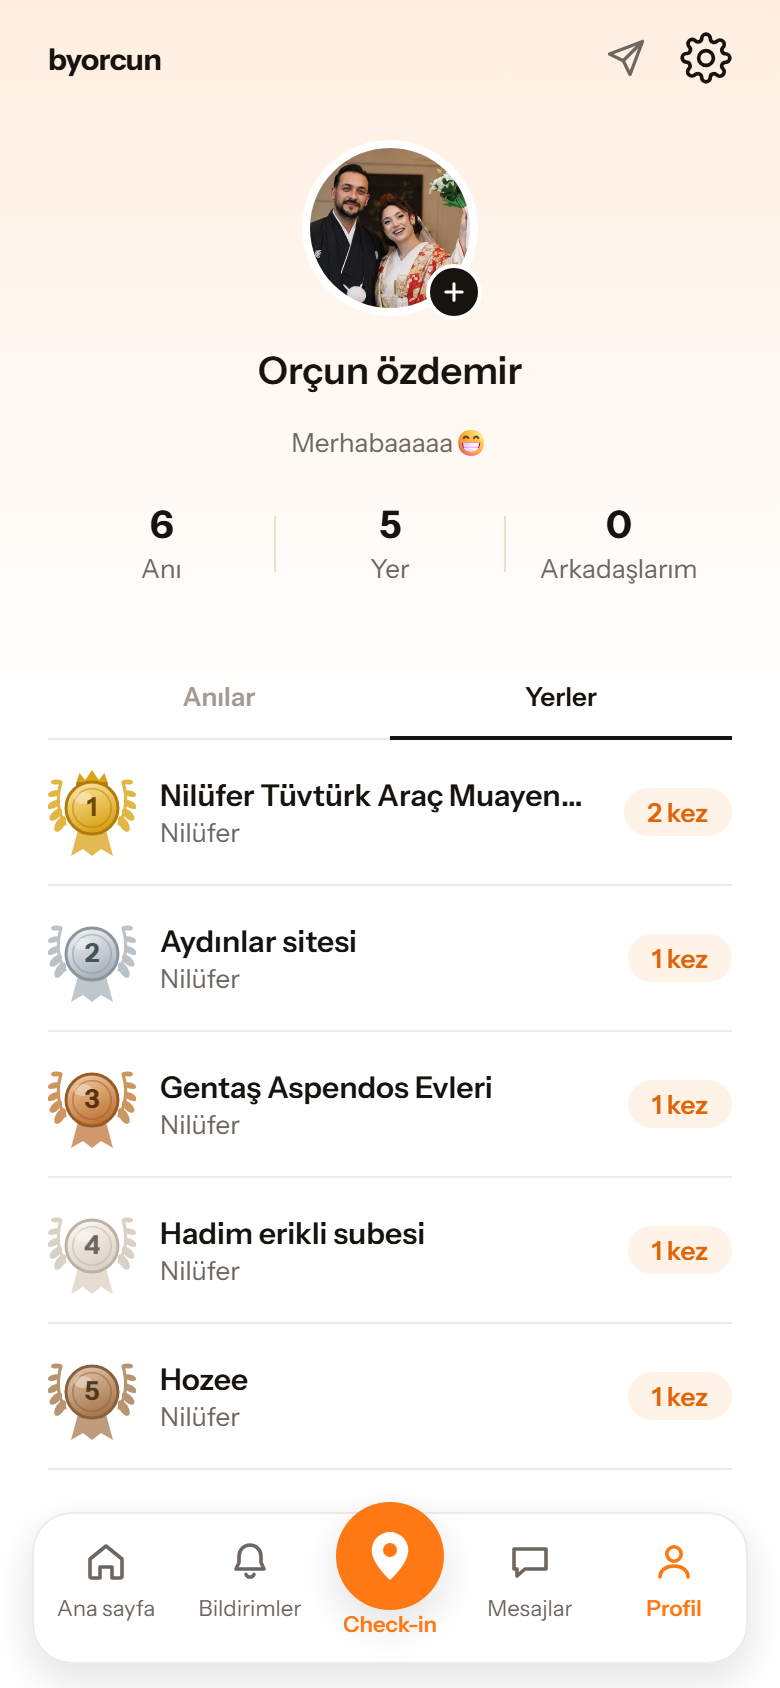
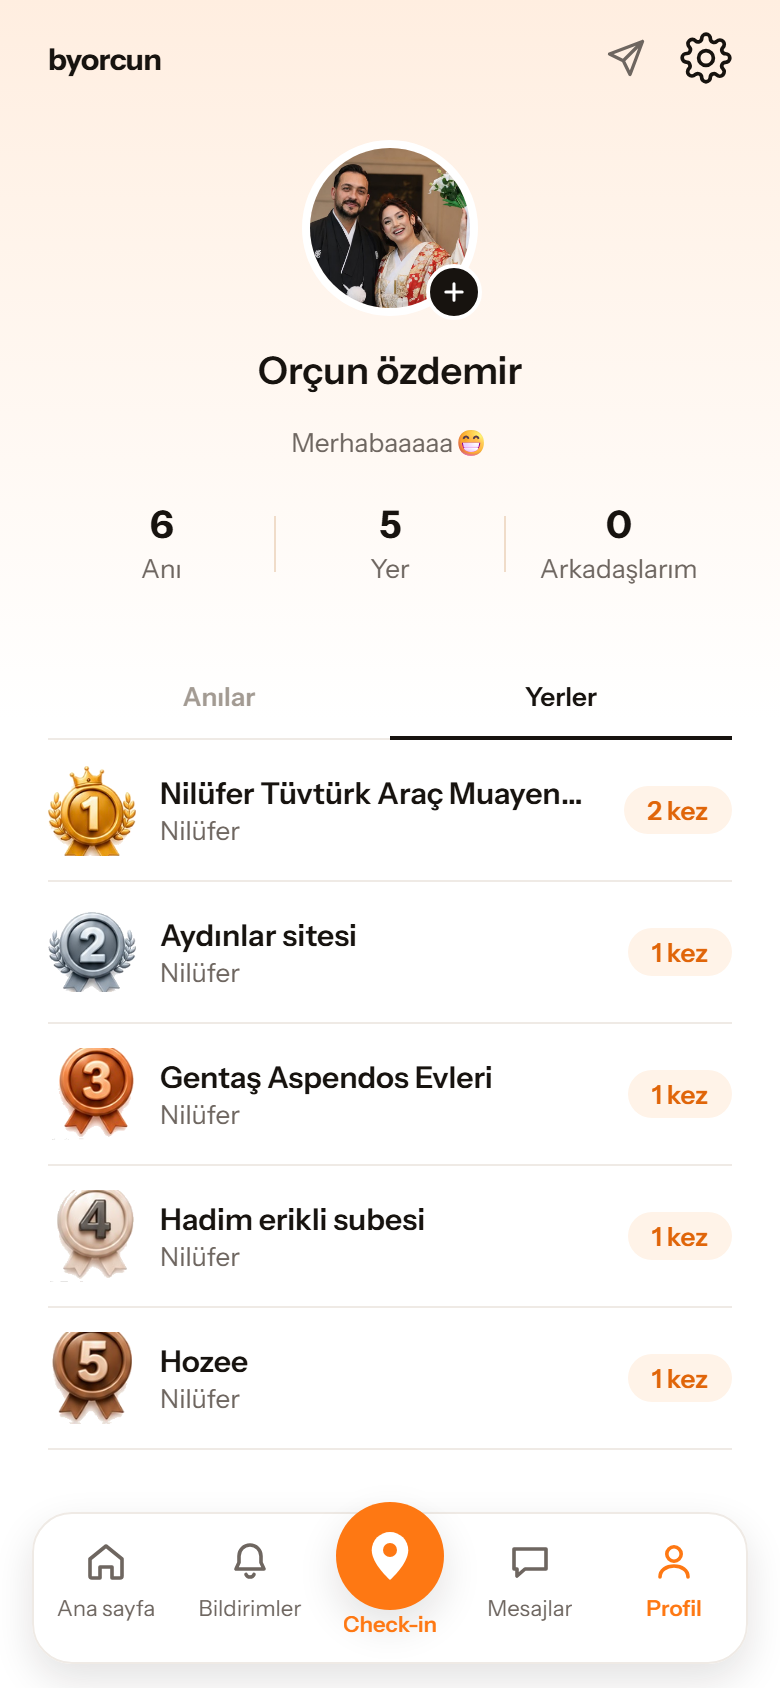
feat(profil): madalyalar referans gorselin KENDISI oldu
Kullanicinin istegi: "Direk attigim gorseldeki gibi gorunmesini
saglayamaz misin". Bir onceki tur madalyalari SVG ile CIZIYORDU ve
referansa yakindi ama ayni degildi; artik referansin kendisi
kullaniliyor.

`araclar/madalya-kirp.py` o gorselden bes madalyayi cikariyor. Uc
ayrinti onemli, ucu de olcerek bulundu:

1. ZEMIN DUZ ESIKLE SILINMIYOR, kenardan TASMA (flood fill) ile
   siliniyor. Duz esik 4. madalyayi da yerdi - o krem/beyaz. Tasma
   yalnizca kenara BAGLI beyazi siliyor, madalyanin icindeki acik
   tonlar duruyor.
2. ESIK 236 DEGIL 225: referansta madalyanin altinda yumusak bir gri
   golge var ve dar esikte saydam olmuyordu. Acik zeminde gorunmuyor
   ama KOYU MODDA madalyanin etrafinda beyazimsi bir hale birakiyordu -
   koyu zeminli kontrol serdiyle yakalandi.
3. SATIR SINIRINDAN 15 px ASAGIDAN kirpiliyor: tam sinirdan kirpinca
   ustteki madalyanin kurdele ucu bu kirpmaya tasiyor ve artik bir leke
   birakiyor. "En buyuk parcayi tut" yontemi denendi ve DEFNE
   DALLARINI da sildi - dal madalyaya degmedigi icin ayri bilesen
   sayiliyor.

Referans buyutulerek dogrulandi: 3, 4 ve 5'te defne dali ZATEN YOK,
yalnizca 1 ve 2'de var. Kucuk ekran goruntusunde varmis gibi
gorunuyordu.

Rakam artik gorselin ICINDE - ayri metin katmani kalkti. Kullanilmayan
SVG import'lari da temizlendi (Circle, Ellipse, G, Rect, Defs, Stop ve
takma adli LinearGradient).

Claude-Session: https://claude.ai/code/session_014wYs6J6iS1AnuVStzS1buE

diff --git a/mobil/src/app/profil/index.tsx b/mobil/src/app/profil/index.tsx
@@ -1,18 +1,7 @@
 import { useCallback, useState } from 'react'
 import { View, Text, Image, ScrollView, Pressable, Share, Modal, StyleSheet } from 'react-native'
 import { useRouter, useFocusEffect } from 'expo-router'
-// SVG'nin LinearGradient'i, profil bandindaki `expo-linear-gradient`
-// ile AYNI ADI tasiyor; takma ad vermezse ikisi cakisiyor.
-import Svg, {
-  Path,
-  Circle,
-  Ellipse,
-  G,
-  Rect,
-  Defs,
-  LinearGradient as SvgGecis,
-  Stop,
-} from 'react-native-svg'
+import Svg, { Path } from 'react-native-svg'
 import * as ImagePicker from 'expo-image-picker'
 import { kendiProfilimiGetir, type KendiProfil } from '../../../lib/profil'
 import { profilFotografiUrl } from '../../../lib/fotograf-url'
@@ -116,142 +105,47 @@ function AyarlarIkonu() {
  * canlilik demek; sira bilgisi ikisi de degil. Madalya renkleri
  * anlam tasiyor (birincilik/ikincilik), dekorasyon degil.
  */
-const MADALYALAR = [
-  // Altin - tek tacli olan bu.
-  {
-    ust: '#FFE9A8', alt: '#D9A21B', kenar: '#B07C0A',
-    yazi: '#6B4A00', dal: '#DFAE2E', tac: true,
-  },
-  // Gumus
-  {
-    ust: '#F6F8FA', alt: '#A9B3BB', kenar: '#8A959D',
-    yazi: '#465158', dal: '#B4BCC3', tac: false,
-  },
-  // Bronz
-  {
-    ust: '#F3CFA6', alt: '#C0763A', kenar: '#9A5A26',
-    yazi: '#5A3110', dal: '#C88B4E', tac: false,
-  },
-  // 4 - platin/krem. Madalya DEGIL ama dolu bir rozet: "ilk bese girdi".
-  {
-    ust: '#FDFAF6', alt: '#DCD2C6', kenar: '#BEB2A4',
-    yazi: '#6E6660', dal: '#D6CCC0', tac: false,
-  },
-  // 5 - koyu bronz
-  {
-    ust: '#E6CBB0', alt: '#A8794F', kenar: '#87613A',
-    yazi: '#523A22', dal: '#B08A63', tac: false,
-  },
-] as const
-
 /**
- * Defne dali - madalyanin bir yaninda, bes yaprak.
+ * Sira madalyalari GORSEL (kullanicinin istegi 2026-09-05: "Direk
+ * attigim gorseldeki gibi gorunmesini saglayamaz misin").
  *
- * `yon` -1 solda, +1 sagda: ayni path aynalanarak kullaniliyor, boylece
- * iki dal birbirinin tam simetrigi oluyor.
+ * Onceden SVG ile CIZILIYORLARDI ve referansa yakindi ama ayni degildi;
+ * artik referansin kendisi kullaniliyor. Varliklar
+ * `araclar/madalya-kirp.py` ile o gorselden cikarildi: bes satir
+ * kirpildi, zemin kenardan tasma yontemiyle saydama cevrildi.
+ *
+ * RAKAM GORSELIN ICINDE - ayri bir metin katmani YOK. Onceden rakam
+ * SVG'nin ustunde duran bir RN metniydi.
+ *
+ * `require` DIZI ICINDE ve SABIT: Metro paketleyici require yolunu
+ * derleme aninda cozuyor, `require(\`...${sira}.png\`)` calismiyor.
  */
-function DefneDali({ yon, renk: dalRengi }: { yon: -1 | 1; renk: string }) {
-  const x = 22 + yon * 13.5
-  return (
-    <G opacity={0.9}>
-      {/* Sap: madalyanin yanindan yukari kivrilan yay. */}
-      <Path
-        d={`M${x} 30 Q${22 + yon * 19} 21 ${22 + yon * 15.5} 9`}
-        stroke={dalRengi}
-        strokeWidth={1.6}
-        strokeLinecap="round"
-        fill="none"
-      />
-      {/* Yapraklar: sap boyunca bes tane, yukari dogru kuculuyor. */}
-      {[0, 1, 2, 3, 4].map((i) => {
-        const t = i / 4
-        // Sapin uzerindeki yaklasik konum (kuadratik egrinin ornegi).
-        const sx = (1 - t) * (1 - t) * x + 2 * (1 - t) * t * (22 + yon * 19) + t * t * (22 + yon * 15.5)
-        const sy = (1 - t) * (1 - t) * 30 + 2 * (1 - t) * t * 21 + t * t * 9
-        const boy = 4.4 - i * 0.45
-        return (
-          <Ellipse
-            key={i}
-            cx={sx + yon * 2.4}
-            cy={sy}
-            rx={boy}
-            ry={boy * 0.5}
-            fill={dalRengi}
-            transform={`rotate(${yon * (58 - i * 14)} ${sx + yon * 2.4} ${sy})`}
-          />
-        )
-      })}
-    </G>
-  )
-}
+const MADALYA_GORSELLERI = [
+  require('../../../assets/images/madalya-1.png'),
+  require('../../../assets/images/madalya-2.png'),
+  require('../../../assets/images/madalya-3.png'),
+  require('../../../assets/images/madalya-4.png'),
+  require('../../../assets/images/madalya-5.png'),
+] as const
 
 function SiraRozeti({ sira }: { sira: number }) {
   const stiller = useStiller(stilleriYap)
-  const madalya = MADALYALAR[sira - 1]
-  if (!madalya) {
+  const gorsel = MADALYA_GORSELLERI[sira - 1]
+  if (!gorsel) {
     return <Text style={stiller.yerSiraDuz}>{sira}</Text>
   }
 
-  // Gradyan kimligi sıraya bagli: ayni ekranda bes madalya birden
-  // ciziliyor ve hepsi ayni id'yi kullansaydi hepsi ILK madalyanin
-  // rengini alirdi (SVG'de id belge genelinde tekil olmali).
-  const gradyanId = `madalya-${sira}`
-
   return (
-    <View style={stiller.yerSiraAlan}>
-      <Svg width={44} height={48} viewBox="0 0 44 48">
-        <Defs>
-          <SvgGecis id={gradyanId} x1="0" y1="0" x2="0.4" y2="1">
-            <Stop offset="0" stopColor={madalya.ust} />
-            <Stop offset="1" stopColor={madalya.alt} />
-          </SvgGecis>
-        </Defs>
-
-        {/* Defne dallari madalyanin ARKASINDA duruyor. */}
-        <DefneDali yon={-1} renk={madalya.dal} />
-        <DefneDali yon={1} renk={madalya.dal} />
-
-        {/* Tac: yalnizca birincide. Uc sivri uc ve altinda bir bant. */}
-        {madalya.tac && (
-          <G>
-            <Path
-              d="M14 9.5 L15.8 4.5 L18.6 8 L22 3 L25.4 8 L28.2 4.5 L30 9.5z"
-              fill={madalya.alt}
-            />
-            <Rect x={14} y={9} width={16} height={2.4} rx={1.2} fill={madalya.kenar} />
-          </G>
-        )}
-
-        {/* Kurdele: madalyanin altindan sarkan iki uc. */}
-        <Path
-          d="M15 33 L11.5 46 L17.5 42.5 L22 46 L26.5 42.5 L32.5 46 L29 33z"
-          fill={madalya.alt}
-          opacity={0.75}
-        />
-
-        <Circle
-          cx={22}
-          cy={22}
-          r={13}
-          fill={`url(#${gradyanId})`}
-          stroke={madalya.kenar}
-          strokeWidth={1.5}
-        />
-        {/* Ic halka: kabartma hissi. */}
-        <Circle
-          cx={22}
-          cy={22}
-          r={9.6}
-          fill="none"
-          stroke={madalya.kenar}
-          strokeWidth={0.8}
-          opacity={0.5}
-        />
-        {/* Sol ustte parlama: metali duz bir daireden ayiran sey bu. */}
-        <Ellipse cx={17.5} cy={17} rx={4.6} ry={3} fill="#FFFFFF" opacity={0.34} />
-      </Svg>
-      <Text style={[stiller.yerSiraRozetYazi, { color: madalya.yazi }]}>{sira}</Text>
-    </View>
+    <Image
+      source={gorsel}
+      style={stiller.yerSiraAlan}
+      // Madalyalarin en/boy orani birbirinden biraz farkli (kirpma
+      // her birini kendi sinirina oturtuyor); `contain` hepsini ayni
+      // kutuda ortaliyor, hicbiri ezilmiyor.
+      resizeMode="contain"
+      accessibilityRole="image"
+      accessibilityLabel={`${sira}. sıra`}
+    />
   )
 }
 
@@ -1005,13 +899,13 @@ const stilleriYap = (renk: Renk) => StyleSheet.create({
   },
   // Ilk bes: kurdeleli madalya. Genislik duz rakamla AYNI (34) ki
   // altinci satirdan itibaren metinler sola kaymasin.
-  // Rozet 34x36 -> 44x48 (kullanicinin istegi 2026-09-05): defne
-  // dallari ve tac icin yer gerekiyordu.
-  yerSiraAlan: { width: 44, height: 48, alignItems: 'center', justifyContent: 'center' },
+  // Rozet 34x36 -> 44x46 (kullanicinin istegi 2026-09-05). Madalya
+  // gorselleri kareye yakin; `contain` ile bu kutuda ortalaniyorlar.
+  yerSiraAlan: { width: 44, height: 46 },
+  // ARTIK KULLANILMIYOR ama duruyor: 6 ve sonrasi icin duz rakam
+  // stiliyle ayni olcegi paylasiyor.
   yerSiraRozetYazi: {
     position: 'absolute',
-    // Dairenin merkezi 48'lik kutunun 22'sinde; metin optik olarak
-    // oraya oturtuluyor.
     top: 13,
     width: 44,
     textAlign: 'center',

diff --git a/araclar/madalya-kirp.py b/araclar/madalya-kirp.py
@@ -1,0 +1,162 @@
+"""Kullanicinin verdigi referans gorselden bes sira madalyasini cikarir.
+
+Kullanicinin istegi (2026-09-05): "Direk attigim gorseldeki gibi
+gorunmesini saglayamaz misin". Onceden madalyalar SVG ile CIZILIYORDU
+ve referansa yakindi ama ayni degildi; artik referansin kendisi
+kullaniliyor.
+
+Beyaz zemin SAYDAMA cevriliyor ama duz esikle DEGIL: 4. madalya
+krem/beyaz oldugu icin esik onu da yerdi. Bunun yerine gorselin
+KENARINDAN tasma (flood fill) yapiliyor - yalnizca kenara BAGLI beyaz
+bolge siliniyor, madalyanin icindeki acik tonlar duruyor.
+
+Cikti: mobil/assets/images/madalya-1.png ... madalya-5.png
+"""
+
+import os
+import sys
+from collections import deque
+
+try:
+    from PIL import Image
+except ImportError:
+    sys.exit('Pillow yok: pip install pillow')
+
+KAYNAK = sys.argv[1] if len(sys.argv) > 1 else None
+if not KAYNAK or not os.path.exists(KAYNAK):
+    sys.exit('Kullanim: python araclar/madalya-kirp.py <referans-gorsel>')
+
+HEDEF = os.path.normpath(
+    os.path.join(os.path.dirname(__file__), '..', 'mobil', 'assets', 'images')
+)
+
+# Referanstaki bes satirin dikey sinirlari ve madalya sutununun yatay
+# araligi.
+#
+# UST PAY: satir sinirinin hemen altindan basliyoruz. Tam sinirdan
+# kirpinca bir ustteki madalyanin KURDELE UCU bu kirpmaya tasiyor ve
+# saydam zeminde artik bir leke birakiyor. "En buyuk parcayi tut"
+# yontemi denendi ve DEFNE DALLARINI da sildi - dal madalyaya
+# degmedigi icin ayri bir bilesen sayiliyor.
+UST_PAY = 15
+SATIRLAR = [
+    (0, 133),
+    (133 + UST_PAY, 266),
+    (266 + UST_PAY, 399),
+    (399 + UST_PAY, 532),
+    (532 + UST_PAY, 666),
+]
+SOL, SAG = 30, 185
+
+# Bu esigin uzerindeki her kanal "zemin" sayiliyor.
+#
+# Esik yalnizca JPEG payi icin degil GOLGE icin de gevsek: referansta
+# madalyanin altinda yumusak bir gri golge var ve dar bir esikte golge
+# saydam olmuyor - acik zeminde gorunmuyor ama KOYU MODDA madalyanin
+# etrafinda beyazimsi bir hale birakiyor.
+#
+# 225 guvenli bir orta yol: golgeyi yiyor ama madalyanin kendisine
+# giremiyor, cunku tasma kenardan basliyor ve her madalyanin DIS
+# CEMBERI koyu - en acik olan 4. madalyada bile. En acik ic detay
+# (gumusun defne dallari, ~180) esigin cok altinda.
+BEYAZ = 225
+
+
+def zemini_sil(im):
+    """Kenara bagli beyaz bolgeyi saydam yapar."""
+    im = im.convert('RGBA')
+    en, boy = im.size
+    px = im.load()
+
+    gorulen = [[False] * boy for _ in range(en)]
+    kuyruk = deque()
+
+    def beyaz_mi(x, y):
+        r, g, b, _ = px[x, y]
+        return r >= BEYAZ and g >= BEYAZ and b >= BEYAZ
+
+    # Dort kenardan basla.
+    for x in range(en):
+        for y in (0, boy - 1):
+            if beyaz_mi(x, y) and not gorulen[x][y]:
+                gorulen[x][y] = True
+                kuyruk.append((x, y))
+    for y in range(boy):
+        for x in (0, en - 1):
+            if beyaz_mi(x, y) and not gorulen[x][y]:
+                gorulen[x][y] = True
+                kuyruk.append((x, y))
+
+    while kuyruk:
+        x, y = kuyruk.popleft()
+        px[x, y] = (255, 255, 255, 0)
+        for dx, dy in ((1, 0), (-1, 0), (0, 1), (0, -1)):
+            nx, ny = x + dx, y + dy
+            if 0 <= nx < en and 0 <= ny < boy and not gorulen[nx][ny] and beyaz_mi(nx, ny):
+                gorulen[nx][ny] = True
+                kuyruk.append((nx, ny))
+
+    return im
+
+
+def yalniz_en_buyuk_parca(im):
+    """Yalnizca en buyuk opak parcayi birakir.
+
+    Satir siniri madalyalari tam ayirmiyor: ustteki madalyanin kurdele
+    ucu bir alttaki kirpmaya tasiyor ve saydam zeminde artik bir leke
+    olarak kaliyor. Bagli bilesenlerden en buyugu madalyanin kendisi;
+    gerisi siliniyor.
+    """
+    en, boy = im.size
+    px = im.load()
+    etiket = [[0] * boy for _ in range(en)]
+    parcalar = []
+
+    for bx in range(en):
+        for by in range(boy):
+            if px[bx, by][3] < 24 or etiket[bx][by]:
+                continue
+            no = len(parcalar) + 1
+            pikseller = []
+            kuyruk = deque([(bx, by)])
+            etiket[bx][by] = no
+            while kuyruk:
+                x, y = kuyruk.popleft()
+                pikseller.append((x, y))
+                for dx, dy in ((1, 0), (-1, 0), (0, 1), (0, -1)):
+                    nx, ny = x + dx, y + dy
+                    if (0 <= nx < en and 0 <= ny < boy
+                            and not etiket[nx][ny] and px[nx, ny][3] >= 24):
+                        etiket[nx][ny] = no
+                        kuyruk.append((nx, ny))
+            parcalar.append(pikseller)
+
+    if not parcalar:
+        return im
+    en_buyuk = max(range(len(parcalar)), key=lambda i: len(parcalar[i])) + 1
+    for x in range(en):
+        for y in range(boy):
+            if etiket[x][y] != en_buyuk:
+                px[x, y] = (255, 255, 255, 0)
+    return im
+
+
+def kirp(im):
+    """Saydam kenarlari atar - madalya kutuya tam otursun."""
+    kutu = im.getbbox()
+    return im.crop(kutu) if kutu else im
+
+
+def main():
+    kaynak = Image.open(KAYNAK).convert('RGB')
+    for sira, (y0, y1) in enumerate(SATIRLAR, start=1):
+        parca = kaynak.crop((SOL, y0, SAG, y1))
+        parca = kirp(zemini_sil(parca))
+        yol = os.path.join(HEDEF, f'madalya-{sira}.png')
+        parca.save(yol, 'PNG', optimize=True)
+        print(f'madalya-{sira}.png  {parca.size[0]}x{parca.size[1]}  '
+              f'{os.path.getsize(yol) / 1024:.1f} KB')
+
+
+if __name__ == '__main__':
+    main()
